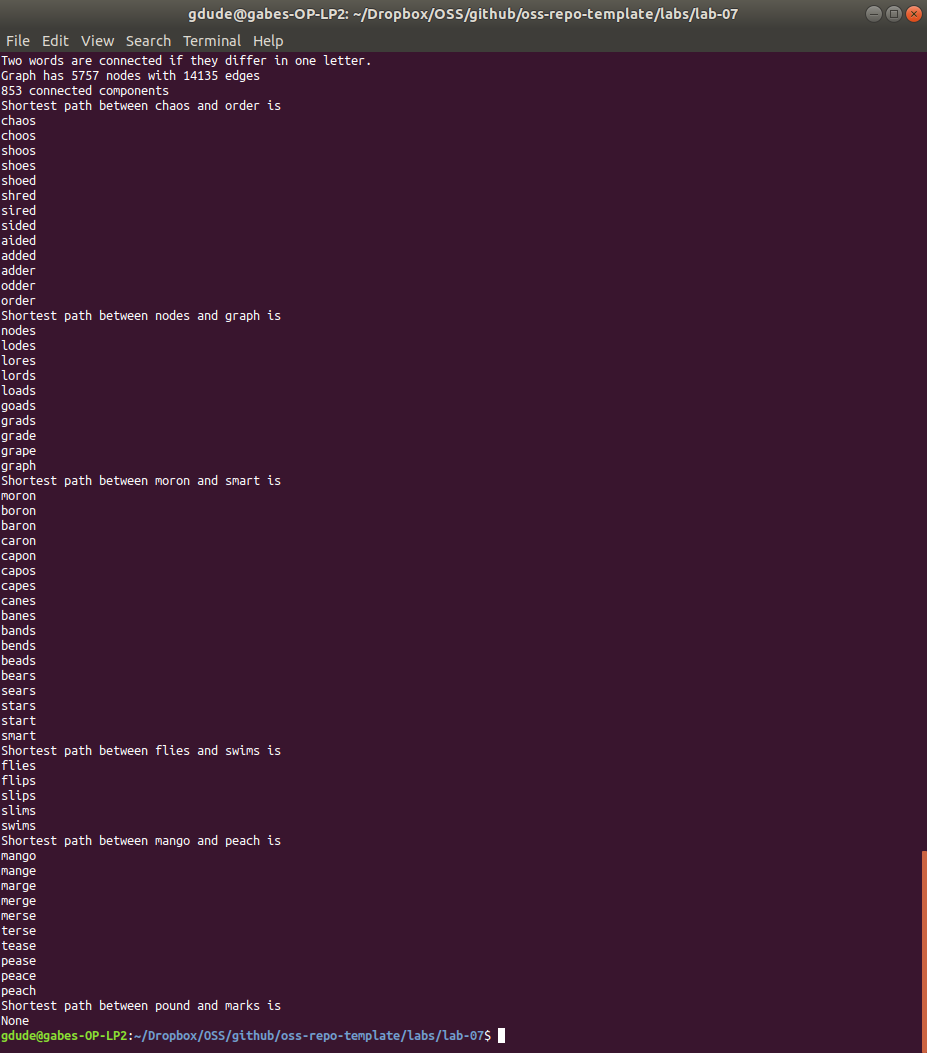
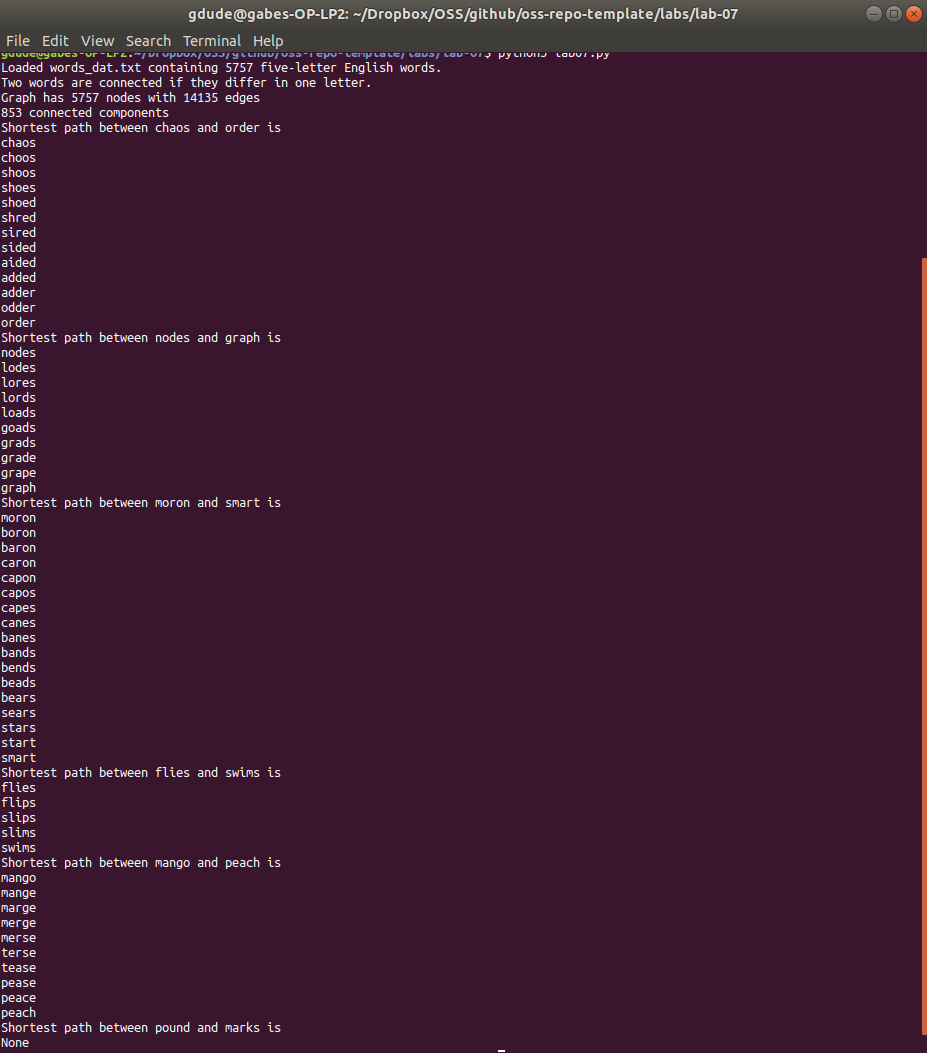
ckzmvl

Changed region(s): [[0.0, 0.0304, 0.5437, 1.0], [0.9968, 0.2431, 1.0, 0.8205], [0.9968, 0.9725, 1.0, 1.0]]

diff --git a/labs/lab-07/lab07-4.py b/labs/lab-07/lab07-4.py
@@ -1,0 +1,91 @@
+"""
+=====
+Words
+=====
+
+Words/Ladder Graph
+------------------
+Generate  an undirected graph over the 5757 5-letter words in the
+datafile `words_dat.txt.gz`.  Two words are connected by an edge
+if they differ in one letter, resulting in 14,135 edges. This example
+is described in Section 1.1 in Knuth's book (see [1]_ and [2]_).
+
+References
+----------
+.. [1] Donald E. Knuth,
+   "The Stanford GraphBase: A Platform for Combinatorial Computing",
+   ACM Press, New York, 1993.
+.. [2] http://www-cs-faculty.stanford.edu/~knuth/sgb.html
+"""
+# Authors: Aric Hagberg (hagberg@lanl.gov),
+#          Brendt Wohlberg,
+#          hughdbrown@yahoo.com
+
+#    Copyright (C) 2004-2019 by
+#    Aric Hagberg <hagberg@lanl.gov>
+#    Dan Schult <dschult@colgate.edu>
+#    Pieter Swart <swart@lanl.gov>
+#    All rights reserved.
+#    BSD license.
+
+import gzip
+from string import ascii_lowercase as lowercase
+
+import networkx as nx
+
+#-------------------------------------------------------------------
+#   The Words/Ladder graph of Section 1.1
+#-------------------------------------------------------------------
+
+
+def generate_graph(words):
+    G = nx.Graph(name="words")
+    lookup = dict((c, lowercase.index(c)) for c in lowercase)
+
+    def edit_distance_one(word):
+        for i in range(len(word)):
+            left, c, right = word[0:i], word[i], word[i + 1:]
+            j = lookup[c]  # lowercase.index(c)
+            for cc in lowercase[j + 1:]:
+                yield left + cc + right
+    candgen = ((word, cand) for word in sorted(words)
+               for cand in edit_distance_one(word) if cand in words)
+    G.add_nodes_from(words)
+    for word, cand in candgen:
+        G.add_edge(word, cand)
+    return G
+
+
+def words_graph():
+    """Return the words example graph from the Stanford GraphBase"""
+    fh = gzip.open('words4_dat.txt.gz', 'r')
+    words = set()
+    for line in fh.readlines():
+        line = line.decode()
+        if line.startswith('*'):
+            continue
+        w = str(line[0:5])
+        words.add(w)
+    return generate_graph(words)
+
+
+if __name__ == '__main__':
+    G = words_graph()
+    print("Loaded words_dat.txt containing 5757 four-letter English words.")
+    print("Two words are connected if they differ in one letter.")
+    print("Graph has %d nodes with %d edges"
+          % (nx.number_of_nodes(G), nx.number_of_edges(G)))
+    print("%d connected components" % nx.number_connected_components(G))
+
+    for (source, target) in [('cold', 'warm'),
+                             ('love', 'hate'),
+                             ('good', 'evil'),
+                             ('pear', 'beef'),
+                             ('make', 'take')]:
+        print("Shortest path between %s and %s is" % (source, target))
+        try:
+            sp = nx.shortest_path(G, source, target)
+            for n in sp:
+                print(n)
+        except nx.NetworkXNoPath:
+            print("None")
